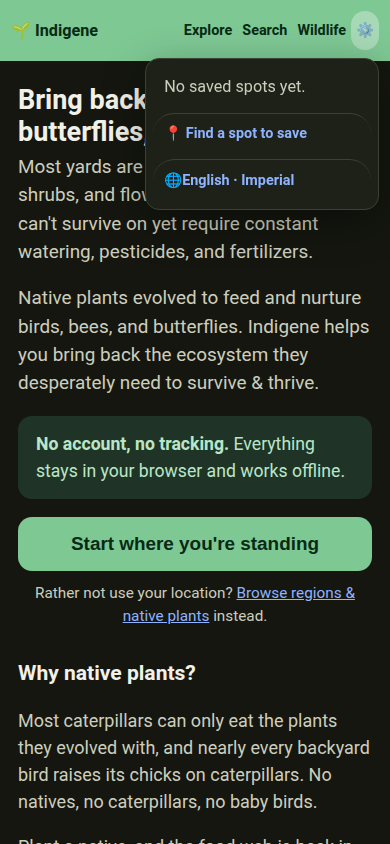
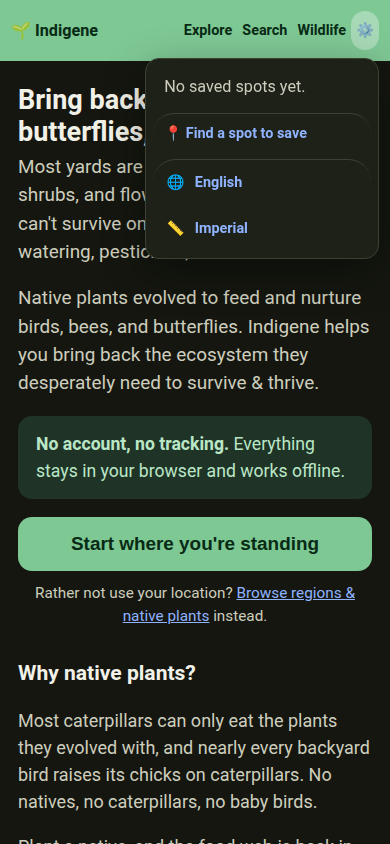
Split the menu's language and units onto a row each, with the ruler
The panel carried one "🌐 English · Imperial" row, which is the same
single-locale reading the footer was just split to avoid. Now it matches:
a globe row for the language, a ruler row for the units, each opening
settings at the card it names.

Only the first of the pair carries the divider, so they read as one group
parted from the saved spots rather than as two unrelated rows, and the icon
sits in a fixed 1.25rem box so the globe and the ruler start their words at
the same x — emoji advance widths differ, and a 2px stagger reads as a
mistake. Rows are 45px tall: an icon plus a word is a tap target, not a line
of text.

prefsSummary() had no callers left and is gone; langLabel()/unitsLabel()
are what both surfaces use now.

Claude-Session: https://claude.ai/code/session_01EknhVww7jighWxTFzoFBgc

Changed region(s): [[0.3692, 0.1848, 0.8308, 0.3081]]

diff --git a/app/src/components/app-menu.ts b/app/src/components/app-menu.ts
@@ -10,9 +10,9 @@
 //
 //   1. Your saved spots, as a quick jump back without leaving for the full
 //      Saved page (which stays, for managing and deleting).
-//   2. Language & units — the setting most likely to be wanted by someone who
-//      can't read the page they're looking at, and therefore the one worst
-//      served by living only at the bottom of it.
+//   2. Language and units, one row each — the settings most likely to be
+//      wanted by someone who can't read the page they're looking at, and
+//      therefore the ones worst served by living only at the bottom of it.
 //
 // The icon follows the contents: a bookmark promised saved spots and nothing
 // else, so it became a gear as soon as the panel held two unlike things.
@@ -24,7 +24,7 @@ import { el } from "../ui";
 import { listSpots } from "../db";
 import { openSavedSpot } from "../state";
 import { t } from "../lib/i18n";
-import { prefsSummary } from "./chrome";
+import { langLabel, unitsLabel } from "./chrome";
 
 const MAX_IN_MENU = 6;
 
@@ -74,30 +74,45 @@ export function closeAppMenu(): void {
 }
 
 /**
- * The language & units row, at the foot of the panel in every state.
+ * The language and units rows at the foot of the panel — two of them, matching
+ * the footer, because they are two settings and not one "locale". A single
+ * "English · Imperial" line invites exactly the assumption the app spends a
+ * whole comment block in `prefs-controls.ts` refusing to make.
  *
- * It shows the two current choices rather than the word "Settings", for the
- * reader this row is really for: someone looking at a page in a language they
- * don't read recognises "English · Imperial" as the thing to press long before
- * they parse a label they can't read either.
+ * Each shows its current *value* rather than the word "Settings", for the
+ * reader these rows are really for: someone looking at a page in a language
+ * they don't read recognises "English" as the thing to press long before they
+ * parse a label they can't read either. The icon carries the other half of the
+ * meaning, and the accessible name spells out both.
  */
-function prefsItem(): HTMLElement {
+function prefRow(
+  href: string,
+  icon: string,
+  value: string,
+  setting: string,
+  divide: boolean
+): HTMLElement {
   return el(
     "a",
     {
-      href: "#/settings/language",
+      href,
       role: "menuitem",
-      class: "nav-menu-all",
-      "aria-label": `${t("nav.languageAndUnits")}: ${prefsSummary()}`,
+      class: divide ? "nav-menu-pref nav-menu-divide" : "nav-menu-pref",
+      "aria-label": `${setting}: ${value}`,
     },
-    [el("span", { "aria-hidden": "true" }, "🌐 "), prefsSummary()]
+    [el("span", { class: "nav-menu-pref-icon", "aria-hidden": "true" }, icon), value]
   );
 }
 
-/** Whatever the saved-spots lookup produced, then the prefs row — which is in
- *  the panel in every state, including while the database is still answering. */
+/** Whatever the saved-spots lookup produced, then the two prefs rows — which
+ *  are in the panel in every state, including while the database is still
+ *  answering. Only the first carries the rule that divides them from above. */
 function fill(target: HTMLElement, ...saved: Node[]): void {
-  target.replaceChildren(...saved, prefsItem());
+  target.replaceChildren(
+    ...saved,
+    prefRow("#/settings/language", "🌐", langLabel(), t("settings.language"), true),
+    prefRow("#/settings/units", "📏", unitsLabel(), t("settings.units"), false)
+  );
 }
 
 async function populate(target: HTMLElement): Promise<void> {

diff --git a/app/src/styles.css b/app/src/styles.css
@@ -322,6 +322,35 @@ a {
 .nav-menu-panel .nav-menu-all:hover {
   text-decoration: underline;
 }
+/* Language and units at the foot of the menu: a row each, matching the footer
+   (see index.html) — two settings, never one "locale". Only the first carries
+   the rule, so the pair reads as one group parted from the saved spots above
+   rather than as two unrelated rows. Taller than the links above them because
+   an icon + a word is a tap target, not a line of text. */
+.nav-menu-panel .nav-menu-pref {
+  display: flex;
+  align-items: center;
+  gap: 0.45rem;
+  min-height: 2.5rem;
+  padding: 0.35rem 0.6rem;
+  font-weight: 650;
+  color: var(--focus);
+  text-decoration: none;
+}
+.nav-menu-panel .nav-menu-pref.nav-menu-divide {
+  margin-top: 0.15rem;
+  border-top: 1px solid var(--line);
+}
+.nav-menu-panel .nav-menu-pref:hover {
+  text-decoration: underline;
+}
+.nav-menu-pref-icon {
+  /* A fixed box so the globe and the ruler start their words at the same x —
+     emoji advance widths differ, and a 2px stagger reads as a mistake. */
+  flex: 0 0 1.25rem;
+  text-align: center;
+}
+
 /* The menu's "Try again" action is a <button>, but it should read exactly
    like the link row above it. */
 .nav-menu-panel button.nav-menu-all {

diff --git a/app/src/components/chrome.ts b/app/src/components/chrome.ts
@@ -88,8 +88,3 @@ export function langLabel(): string {
 export function unitsLabel(): string {
   return t(getUnits() === "metric" ? "settings.units.metric" : "settings.units.imperial");
 }
-
-/** "Français · Métrique" — both choices at once, for the header menu's one row. */
-export function prefsSummary(): string {
-  return `${langLabel()} · ${unitsLabel()}`;
-}

diff --git a/CHANGELOG.md b/CHANGELOG.md
@@ -102,16 +102,16 @@ subtitle on the What's new page.
 ### Changed
 
 - **The bookmark button at the top of every page is now a ⚙ menu**, and it
-  holds the switch for language and units as well as your saved spots. It used
-  to lead only to saved places, which meant the one setting a reader might
+  holds your language and your units as well as your saved spots. It used to
+  lead only to saved places, which meant the one setting a reader might
   urgently need — the one that puts the whole app in their language — was
   reachable only by scrolling to the bottom of a page they may not be able to
   read. Now it's a tap away from the top of every screen.
-- **Language and units are two links in the footer, not one line.** A globe for
-  the language you read in, a ruler for the units you measure in, each opening
-  the settings page at the choice it names. Written as a single "English ·
-  Imperial" they looked like one setting, and they have never been one — you
-  can read in French and measure in feet.
+- **Language and units are two separate lines, in the menu and in the footer.**
+  A globe 🌐 for the language you read in, a ruler 📏 for the units you measure
+  in, each opening the settings page at the choice it names. Written together
+  as one "English · Imperial" line they looked like a single setting, and they
+  have never been one — you can read in French and measure in feet.
 - **The home page no longer stops to ask about language and units** halfway
   down. That belonged in the menu and the footer, not in the middle of the
   page you came to read.
